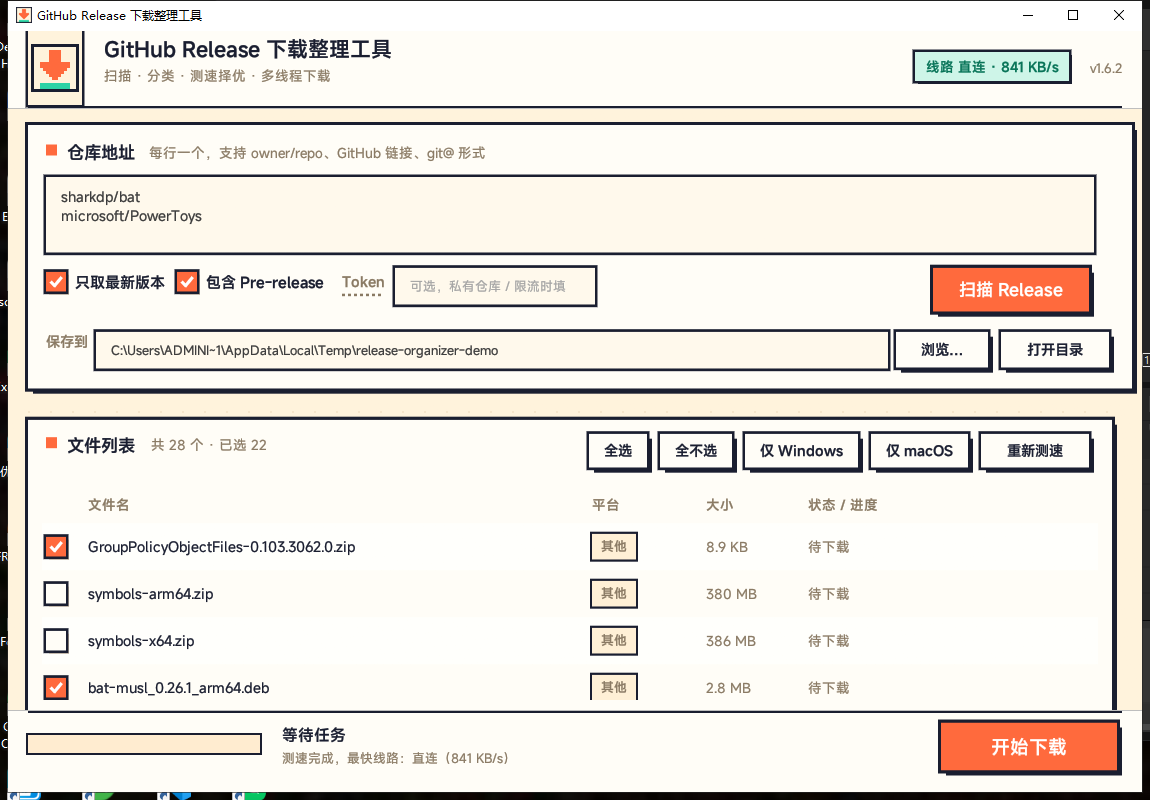
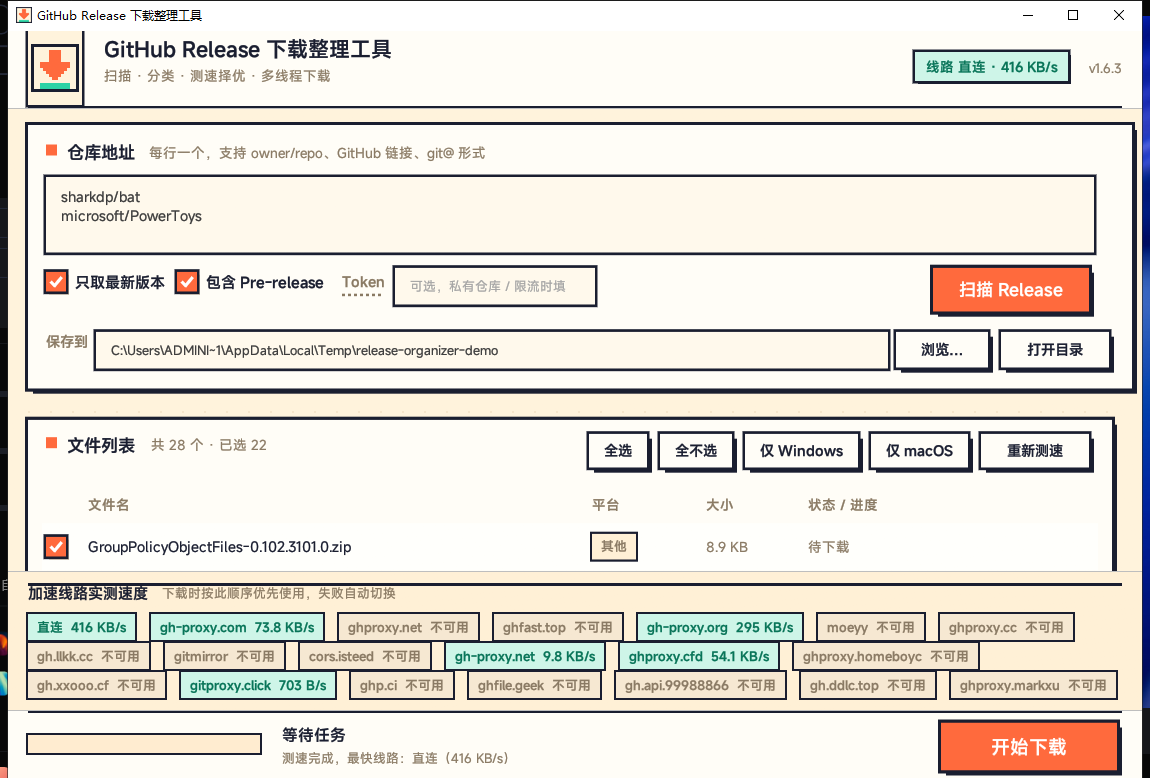
截图：换成 v1.6.3 主界面（含 20 条线路实测），bmp2png 支持裁掉底部杂色

diff --git a/tools/bmp2png.py b/tools/bmp2png.py
@@ -6,7 +6,7 @@ import sys
 import zlib
 
 
-def convert(src, dst):
+def convert(src, dst, crop_bottom=0):
     with open(src, "rb") as f:
         data = f.read()
     off = struct.unpack_from("<I", data, 10)[0]
@@ -14,13 +14,16 @@ def convert(src, dst):
     bpp = struct.unpack_from("<H", data, 28)[0]
     assert bpp == 32, f"only 32bpp supported, got {bpp}"
     top_down = h < 0
-    h = abs(h)
+    h_src = abs(h)
+    # crop_bottom 从画面底部裁掉几行（用来去掉窗口外的桌面/任务栏杂色）
+    h = max(1, h_src - max(0, crop_bottom))
     stride = w * 4
 
     raw = bytearray()
     rows = []
     for y in range(h):
-        sy = y if top_down else (h - 1 - y)
+        # BMP 默认自下而上：y=0 是最底下一行，所以要用原始高度反推
+        sy = y if top_down else (h_src - 1 - y)
         base = off + sy * stride
         row = bytearray()
         row.append(0)
@@ -50,4 +53,6 @@ def convert(src, dst):
 
 
 if __name__ == "__main__":
-    convert(sys.argv[1], sys.argv[2])
+    # 用法: bmp2png.py in.bmp out.png [裁掉底部多少像素]
+    crop = int(sys.argv[3]) if len(sys.argv) > 3 else 0
+    convert(sys.argv[1], sys.argv[2], crop)

diff --git a/README.md b/README.md
@@ -30,21 +30,21 @@
 
 ## 界面
 
-| 下载中（进度条下是总速度） | 卡顿换线路时的提示 |
+| 20 条线路的实测速度（点右上角标签展开） | 下载中（进度条下是总速度） |
 | --- | --- |
-| ![下载中](screenshots/downloading.png) | ![卡顿提示](screenshots/reconnecting.png) |
+| ![线路实测](screenshots/routes.png) | ![下载中](screenshots/downloading.png) |
 
-| 自动重启连接提速 | 断点续传提示 |
+| 换线路时的提示 | 自动重启连接提速 |
 | --- | --- |
-| ![重启提速](screenshots/boosting.png) | ![断点续传](screenshots/resume.png) |
+| ![卡顿提示](screenshots/reconnecting.png) | ![重启提速](screenshots/boosting.png) |
 
-| 下载完成提醒 | 字段悬停说明 |
+| 断点续传提示 | 下载完成提醒 |
 | --- | --- |
-| ![完成提醒](screenshots/done-dialog.png) | ![悬停说明](screenshots/tooltip.png) |
+| ![断点续传](screenshots/resume.png) | ![完成提醒](screenshots/done-dialog.png) |
 
-| 空状态 | |
+| 字段悬停说明 | 空状态 |
 | --- | --- |
-| ![空状态](screenshots/empty.png) | |
+| ![悬停说明](screenshots/tooltip.png) | ![空状态](screenshots/empty.png) |
 
 ## 使用
 
